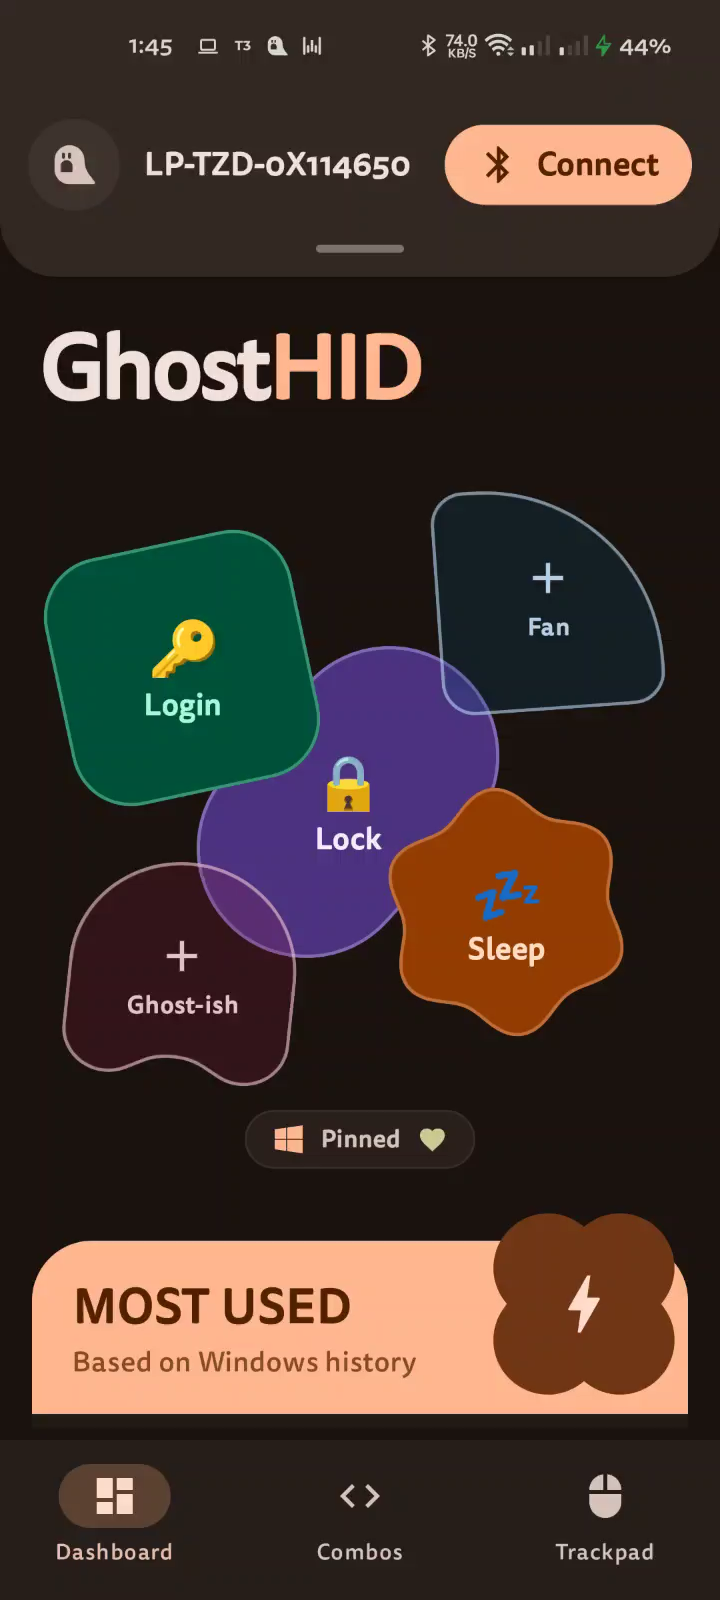
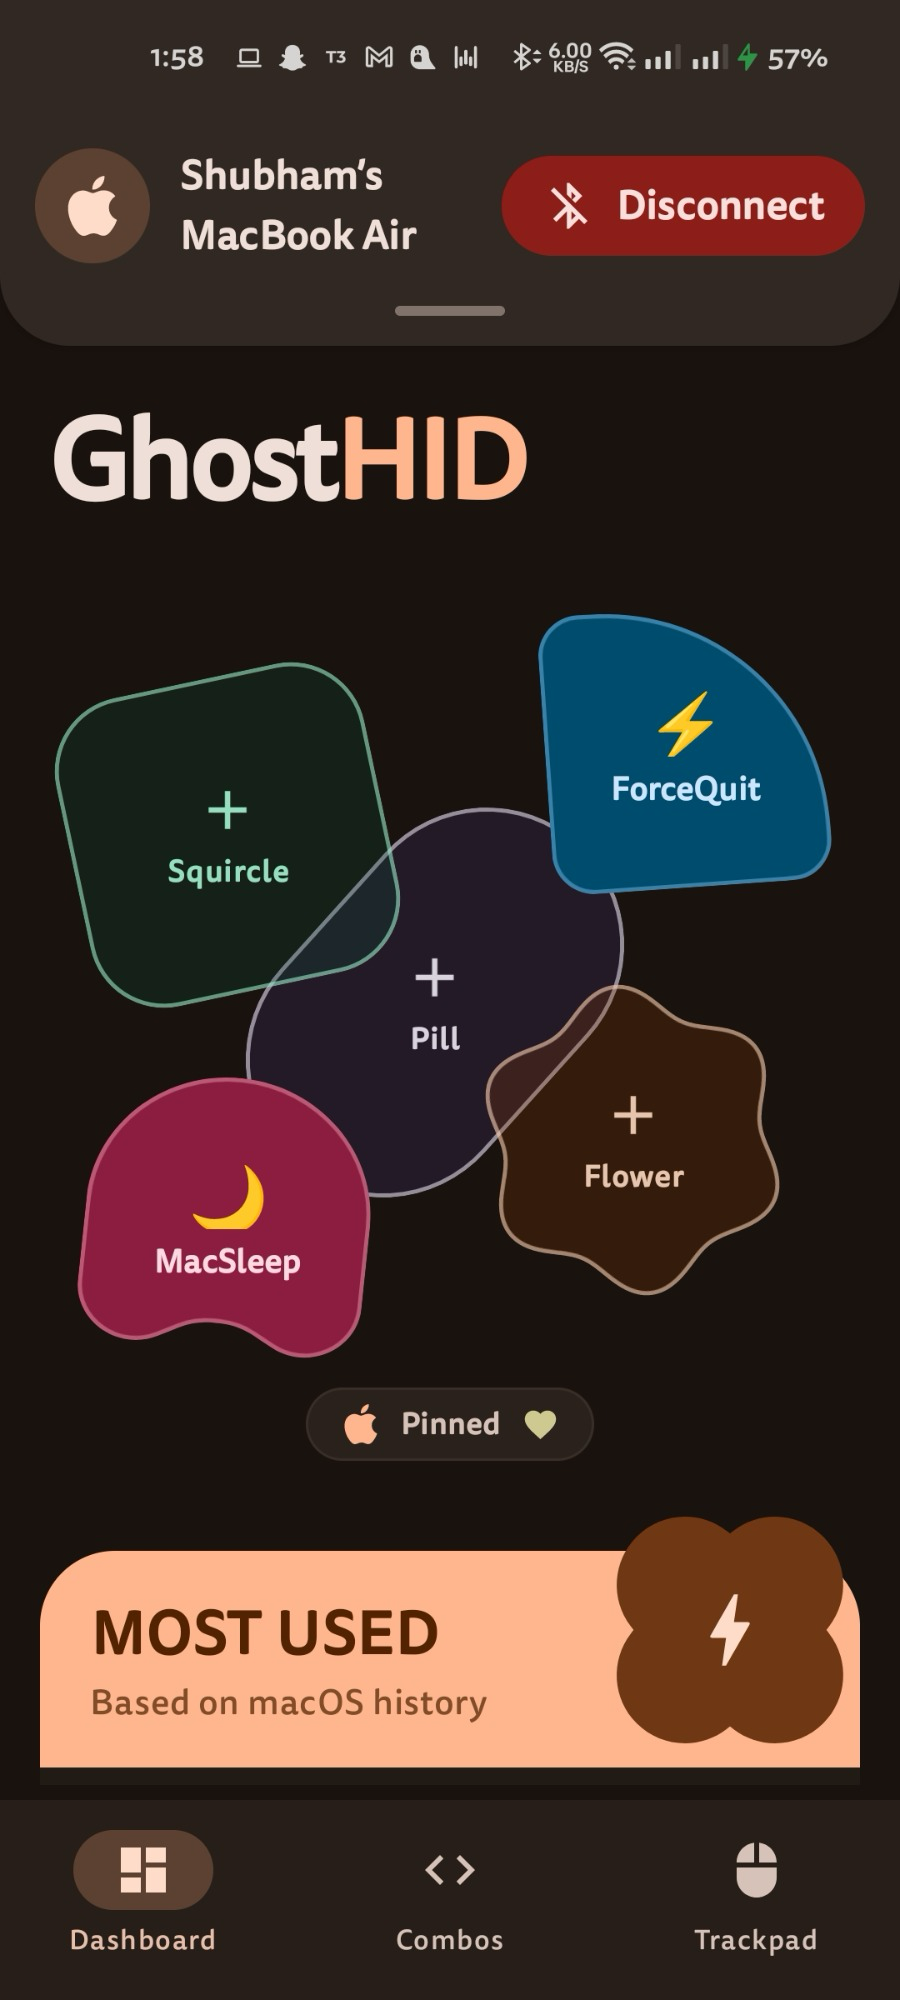
docs: replace dashboard and streamdeck screenshots, add payload drawer showcase

diff --git a/README.md b/README.md
@@ -31,9 +31,10 @@ GhostHID turns an Android device into a physical wireless keyboard and mouse. It
 </p>
 
 <p align="center">
-  <img src="docs/images/dashboard.png" width="32%" alt="Dashboard screen" />
-  <img src="docs/images/combos.png" width="32%" alt="Combos screen" />
-  <img src="docs/images/trackpad.png" width="32%" alt="Trackpad screen" />
+  <img src="docs/images/dashboard.png" width="24%" alt="Dashboard screen" />
+  <img src="docs/images/payload.png" width="24%" alt="Secure payload drawer" />
+  <img src="docs/images/combos.png" width="24%" alt="Combos screen" />
+  <img src="docs/images/trackpad.png" width="24%" alt="Trackpad screen" />
 </p>
 
 ## Subsystems
@@ -46,6 +47,9 @@ The trackpad surface sends standard relative pointer reports over HID Report ID 
 
 ### Macro sequence parser
 The built-in action sequence parser processes bracket syntax strings such as `{mod+s}{500ms}rustdesk{Enter}`. It translates keys into USB HID scancodes, enforces modifier key down/up order, and sequences delays.
+
+### Secure payload vault
+The expandable payload drawer stores credentials, login secrets, and repetitive strings. It uses Android Keystore hardware-backed encryption to protect sensitive data and allows one-tap typing into active HID target sessions.
 
 ### Background service and IPC
 A foreground Android service registers the `BluetoothHidDevice` SDP profile and manages L2CAP transport channels. It exposes a broadcast receiver interface so external scripts and the [ghid-cli](https://github.com/ShubhamJ010/ghid-cli) companion tool can automate keystrokes, combos, and mouse events over ADB.
